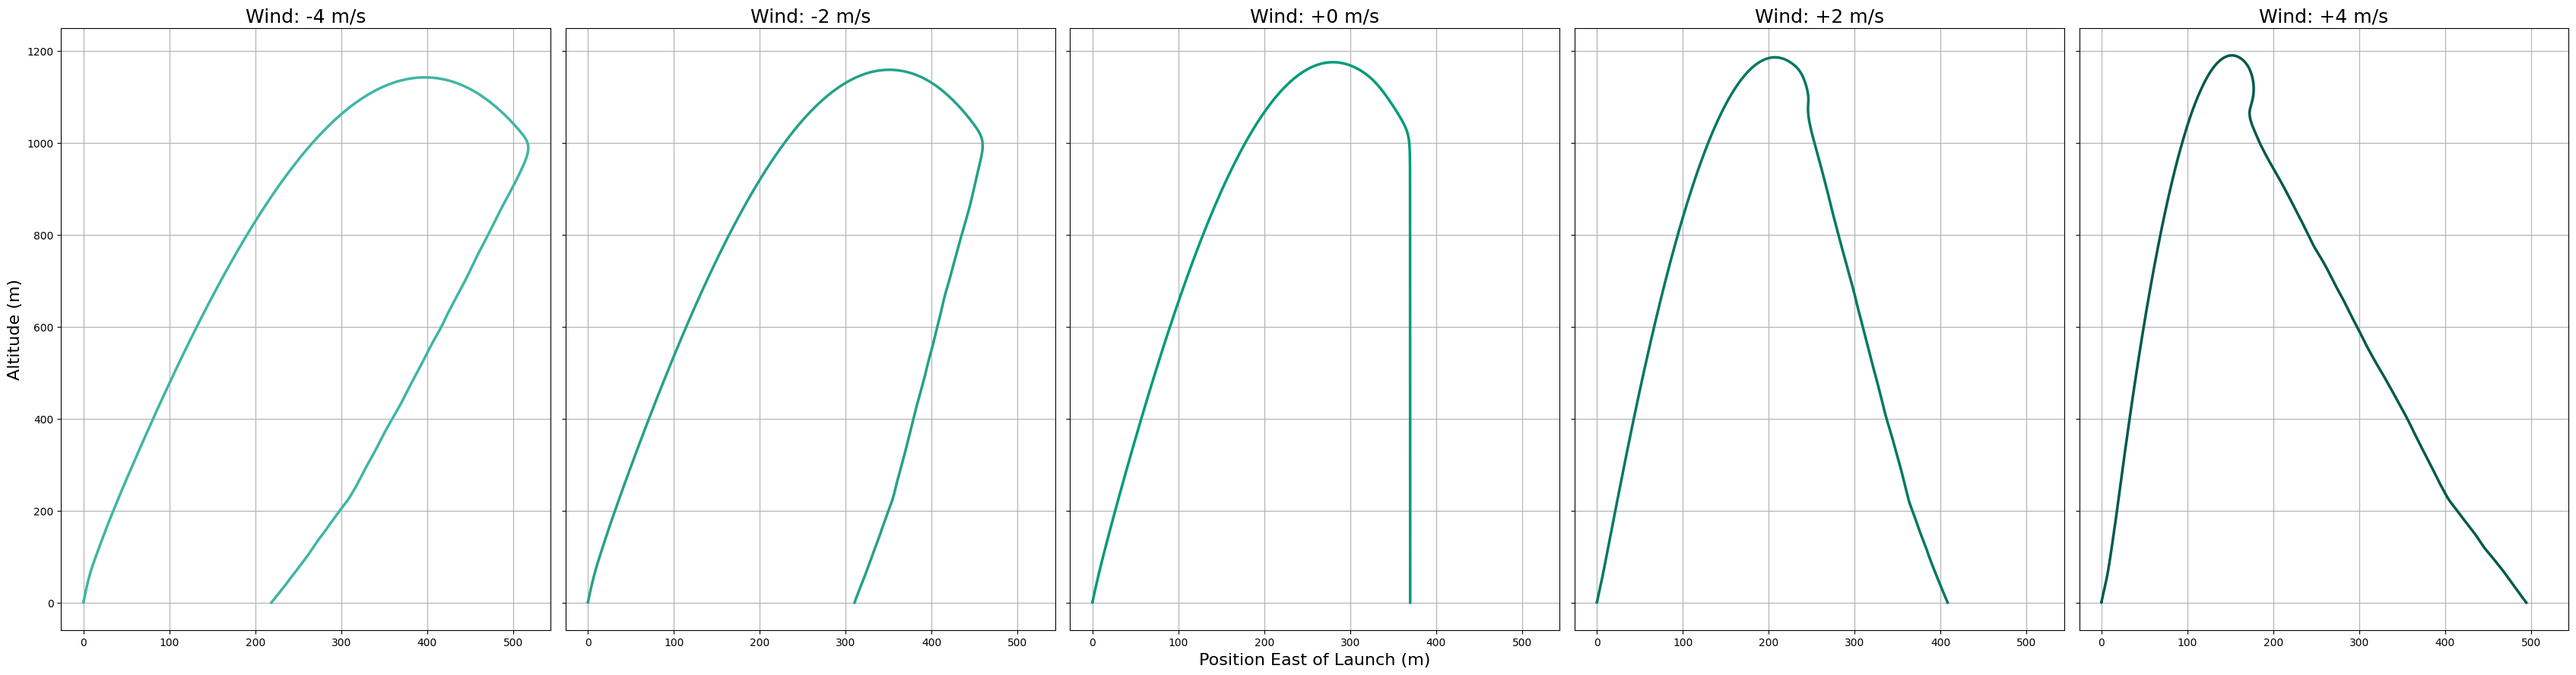
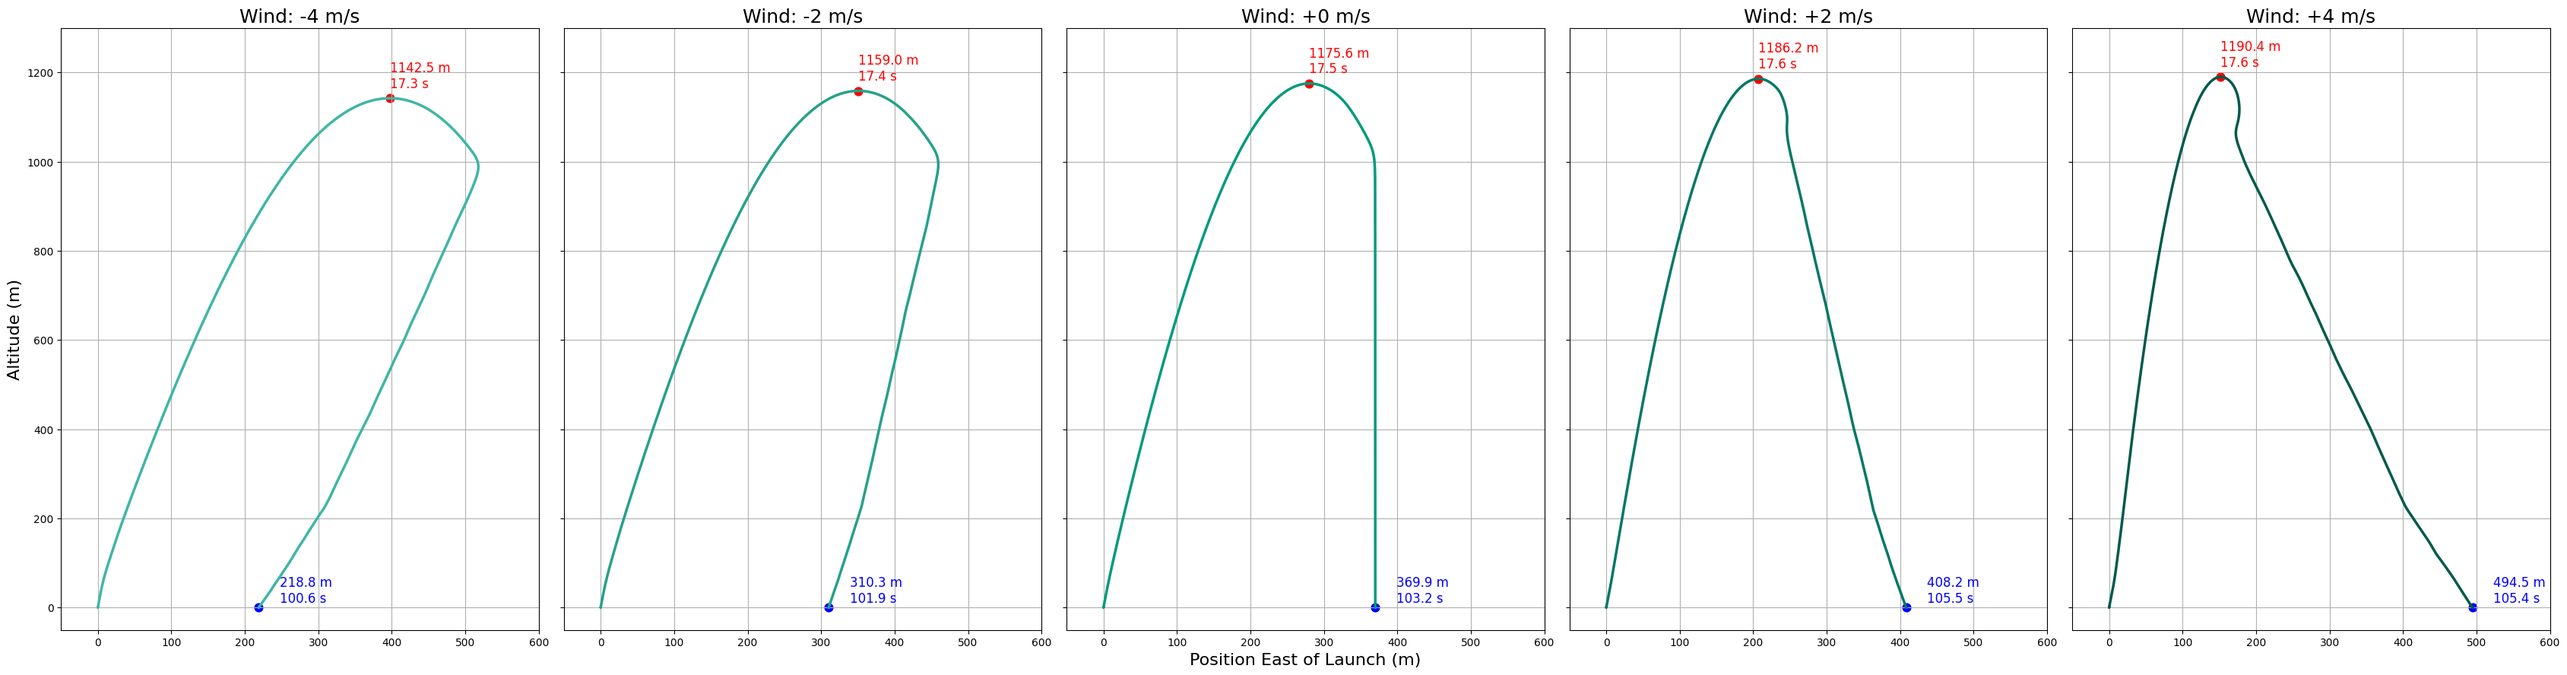
update

diff --git a/Program/Picture_Gen/Landing_point.py b/Program/Picture_Gen/Landing_point.py
@@ -20,30 +20,51 @@ fig, axs = plt.subplots(nrows=1, ncols=5, figsize=(34, 9), sharey=True, sharex=T
 
 for i, file_path in enumerate(csv_files):
     df = pd.read_csv(os.path.join(folder_path, file_path))
+
+    x = df['Position East of launch (m)']
+    y = df['Altitude (m)']
+    t = df['# Time (s)']  # 時間欄位
     
-    axs[i].plot(
-        df['Position East of launch (m)'], df['Altitude (m)'],
-        color=plot_colors[i % len(plot_colors)],
-        linewidth=2.5
-    )
+    axs[i].plot(x, y, color=plot_colors[i % len(plot_colors)], linewidth=2.5)
     
-    wind_speed = (i - 2) * 2  # 轉換 index 為風速
+    wind_speed = (i - 2) * 2  # 對應的風速
     axs[i].set_title(f"Wind: {wind_speed:+} m/s", fontsize=18)
     axs[i].grid(True)
+
+    # 找最高點
+    idx_max = y.idxmax()
+    x_max = x[idx_max]
+    y_max = y[idx_max]
+    t_max = t[idx_max]
+    axs[i].scatter(x_max, y_max, color='red', s=60, label='Max Altitude')
+    axs[i].annotate(f"{y_max:.1f} m\n{t_max:.1f} s",
+                    (x_max, y_max),
+                    textcoords="offset points",
+                    xytext=(0, 10),
+                    ha='left',
+                    fontsize=12,
+                    color='red')
     
-    # 只在最左邊加 y 標籤
+    # 找落地點（最後一筆資料）
+    x_land = x.iloc[-1]
+    y_land = y.iloc[-1]
+    t_land = t.iloc[-1]
+    axs[i].scatter(x_land, y_land, color='blue', s=60, label='Landing Point')
+    axs[i].annotate(f"{x_land:.1f} m\n{t_land:.1f} s",
+                    (x_land, y_land),
+                    textcoords="offset points",
+                    xytext=(20, 5),
+                    ha='left',
+                    fontsize=12,
+                    color='blue')
+    
+    axs[i].set_xlim(-50, 600)
+    axs[i].set_ylim(-50, 1300)
+
     if i == 0:
         axs[i].set_ylabel("Altitude (m)", fontsize=16)
-    
-    # 可選：設 x/y 軸範圍統一（你可以觀察落點差距是否需要）
-    # axs[i].set_xlim(-150, 150)
-    # axs[i].set_ylim(0, 1400)
 
-# 最右邊加 x 標籤
 axs[-3].set_xlabel("Position East of Launch (m)", fontsize=16)
-
-# 整體標題
-# fig.suptitle("Rocket Flight Trajectories under Different Wind Speeds", fontsize=22, y=1.02)
 
 fig.tight_layout()
 plt.savefig(output_image_name, bbox_inches='tight')

diff --git a/Program/Land_Point_Sim/Picture_Gen.py b/Program/Land_Point_Sim/Picture_Gen.py
@@ -34,7 +34,7 @@ for i in range(8):
             print(f"讀取失敗：{filename}，錯誤：{e}")
 
 # === 繪圖 ===
-plt.figure(figsize=(10, 6))
+plt.figure(figsize=(8, 6))
 plt.scatter(0, 0, color='black', marker='x', s=100, label='Launch Point')
 
 for j in range(3):
@@ -42,10 +42,35 @@ for j in range(3):
     y_vals = [float(xy[1]) for xy in xy_lists[j]]
     plt.scatter(x_vals, y_vals, label=labels[j], color=colors[j], marker='o')
 
+# === ABCDEFG 座標（以發射點為中心的 X, Y，單位：m）===
+ab_points = {
+    'A': (628.5, -599.0),
+    'B': (271.5, -599.0),
+    'C': (-55.0, -105.0),
+    'D': (-55.0, 111.0),
+    'E': (262.0, 545.5),
+    'F': (628.5, 545.5),
+    'G': (939.2, 18.5),
+}
+
+# === 畫出 ABCDEFG 點 ===
+for name, (x, y) in ab_points.items():
+    plt.scatter(x, y, color='orange', marker='s', s=60, edgecolors='black', zorder=5)
+    plt.text(x + 10, y + 10, name, fontsize=9, color='black')
+
+# === 畫出包住 ABCDEFG 的區域 ===
+# 排序：照你的資料順序連起來會形成一個封閉區域
+polygon_order = ['A', 'B', 'C', 'D', 'E', 'F', 'G']
+polygon_coords = [ab_points[name] for name in polygon_order]
+
+# 填色
+x_polygon, y_polygon = zip(*polygon_coords)
+plt.fill(x_polygon, y_polygon, color='orange', alpha=0.1, label='Landing Safety Zone')
+
 plt.xlabel(CATCH_VALUE[0])
 plt.ylabel(CATCH_VALUE[1])
-plt.xlim(-100, 1000)
-plt.ylim(-300, 300)
+plt.xlim(-200, 1300)
+plt.ylim(-650, 600)
 plt.title("Landing point prediction map")
 plt.legend()
 plt.grid(True, color='gray', linestyle='--', linewidth=0.5, alpha=0.3)

diff --git a/Program/Picture_Gen/landing_time.py b/Program/Picture_Gen/landing_time.py
@@ -1,0 +1,51 @@
+import os
+import pandas as pd
+import matplotlib.pyplot as plt
+import seaborn as sns
+
+FOLDER_PATH = "Program/Sim_Data"
+FILE_PATTERN = "{}_{}.csv"
+output_image_name = "landing_time.png"
+
+# 儲存最後時間
+final_times = []
+
+# 先加入 0_0.csv
+filename = os.path.join(FOLDER_PATH, FILE_PATTERN.format(0, 0))
+df = pd.read_csv(filename)
+if "# Time (s)" in df.columns:
+    final_times.append(df["# Time (s)"].iloc[-1])
+
+# 加入其他資料
+for i in range(8):  # i = 0~7
+    for j in [2, 4]:
+        filename = os.path.join(FOLDER_PATH, FILE_PATTERN.format(i, j))
+        if not os.path.exists(filename):
+            continue
+        try:
+            df = pd.read_csv(filename)
+            if "# Time (s)" in df.columns:
+                final_times.append(df["# Time (s)"].iloc[-1])
+        except Exception as e:
+            print(f"Read error {filename}: {e}")
+
+# === KDE 曲線圖 ===
+plt.figure(figsize=(10, 6))
+sns.kdeplot(final_times, fill=True, linewidth=2, color="#019a7b")
+
+import numpy as np
+
+# 計算平均與標準差
+mean_time = np.mean(final_times)
+std_time = np.std(final_times, ddof=1)  # sample standard deviation
+
+print(f"Final Time Mean: {mean_time:.3f} s")
+print(f"Final Time Std Dev: {std_time:.3f} s")
+
+plt.xlabel("Final Time (s)")
+plt.ylabel("Density")
+plt.title("Distribution of Final Time")
+plt.grid(True)
+plt.tight_layout()
+plt.savefig(output_image_name, dpi=500)
+plt.show()

diff --git a/PlatfromIO_Rocket/src/Main_Test/Main_Test.cpp b/PlatfromIO_Rocket/src/Main_Test/Main_Test.cpp
@@ -1,0 +1,61 @@
+#include "Config.h"
+
+bool iicScan();
+void findiic(byte i, bool checklist[]);
+
+void setup() {
+    Serial.begin(115200);
+    Wire.begin();
+
+    bool isiicSuccess = iicScan();
+    Serial.println(isiicSuccess ? 
+        "iic sensor is connected" : 
+        "iic sensor is fail to connect"
+    );
+}
+
+void loop() {
+    
+}
+
+bool iicScan() {
+    Serial.println("Start iic Scan");
+    bool checklist[4] = {false};
+    for (byte i = 8; i < 120; i++) findiic(i, checklist);
+    for (bool i : checklist) if (!i) return false;
+    return true;
+}
+
+void findiic(byte i, bool checklist[]) {
+    Wire.beginTransmission(i);
+    byte error = Wire.endTransmission();
+    if (error != 0) return;
+
+    Serial.print("Find: 0x");
+    Serial.println(i, HEX);
+
+    switch (i) {
+    case BMP_I2C_ADDRESS_1:
+        Serial.println("BMP390 1 Find");
+        checklist[0] = true;
+        break;
+
+    case BMP_I2C_ADDRESS_2:
+        Serial.println("BMP390 2 Find");
+        checklist[1] = true;
+        break;
+
+    case 0x70:
+        Serial.println("SHTC3 Find");
+        checklist[2] = true;
+        break;
+
+    case 0x68:
+        Serial.println("MPU9250 Find");
+        checklist[3] = true;
+        break;
+
+    default:
+        break;
+    }
+}

diff --git a/Program/Picture_Gen/get_landing_time.py b/Program/Picture_Gen/get_landing_time.py
@@ -1,0 +1,37 @@
+import os
+import pandas as pd
+import numpy as np
+
+FOLDER_PATH = "Program/Sim_Data"
+FILE_PATTERN = "{}_{}.csv"
+
+max_altitudes = []
+
+title = "Altitude (m)"  # 高度欄位名稱
+
+# 加入 0_0.csv
+filename = os.path.join(FOLDER_PATH, FILE_PATTERN.format(0, 0))
+df = pd.read_csv(filename)
+if title in df.columns:
+    max_altitudes.append(df[title].max())
+
+# 加入其他資料
+for i in range(8):
+    for j in [2, 4]:
+        filename = os.path.join(FOLDER_PATH, FILE_PATTERN.format(i, j))
+        if not os.path.exists(filename):
+            continue
+        try:
+            df = pd.read_csv(filename)
+            if title in df.columns:
+                max_altitudes.append(df[title].max())
+        except Exception as e:
+            print(f"Read error {filename}: {e}")
+
+# 計算平均與標準差
+mean_altitude = np.mean(max_altitudes)
+std_altitude = np.std(max_altitudes, ddof=1)
+
+# 印出結果
+print(f"Average Max Altitude: {mean_altitude:.3f} m")
+print(f"Standard Deviation:   {std_altitude:.3f} m")

diff --git a/Program/Land_Point_Sim/Rate.py b/Program/Land_Point_Sim/Rate.py
@@ -31,7 +31,7 @@ direction_angle_ranges = {
     "NNW": (326.25, 348.75),
 }
 
-N = 10000
+N = 5000
 
 total = sum(direction_counts.values())
 direction_probs = {k: v / total for k, v in direction_counts.items()}

diff --git a/PlatfromIO_Rocket/src/Main_Test/Config.h b/PlatfromIO_Rocket/src/Main_Test/Config.h
@@ -1,0 +1,3 @@
+#include "Constant.h"
+
+#include <Wire.h>
